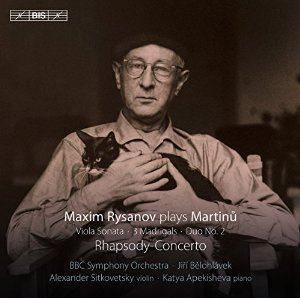
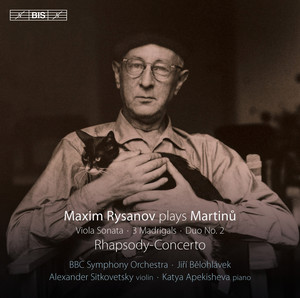
some qulaity improvements

diff --git a/components/RecordingsList.tsx b/components/RecordingsList.tsx
@@ -39,8 +39,8 @@ export default function RecordingsList({}: Props) {
                     <Image
                         src={r.imageSrc}
                         alt={r.imageSrc}
-                        width={300}
-                        height={300}
+                        width={1000}
+                        height={1000}
                         className="rounded-2xl"
                         loading="eager"
                         priority={true}
